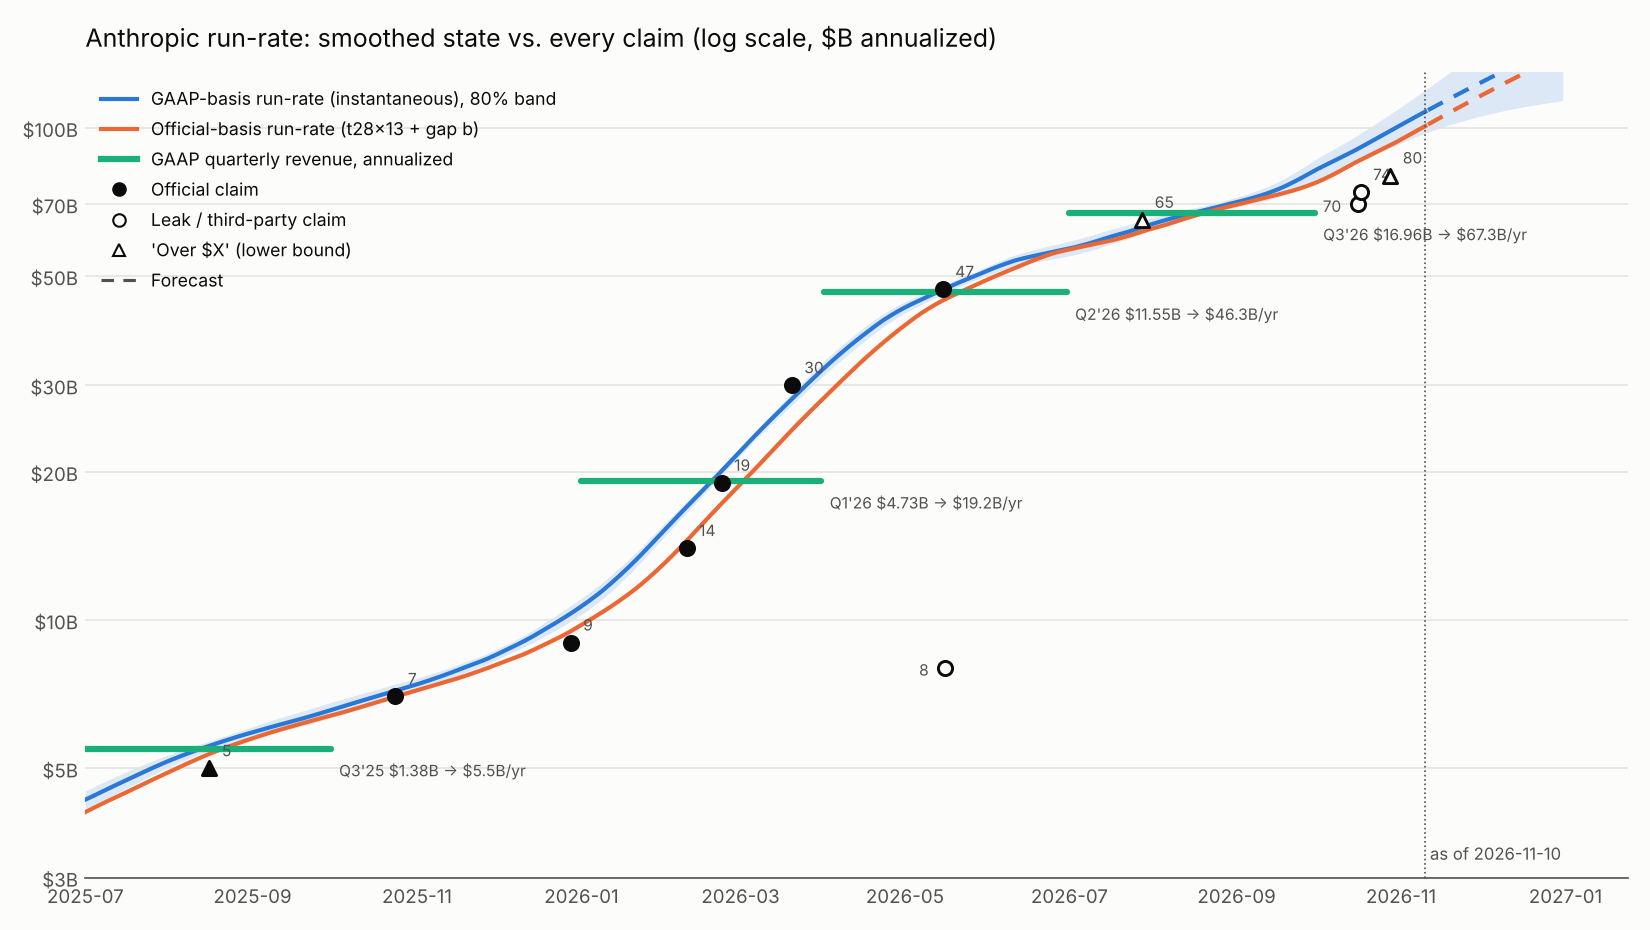
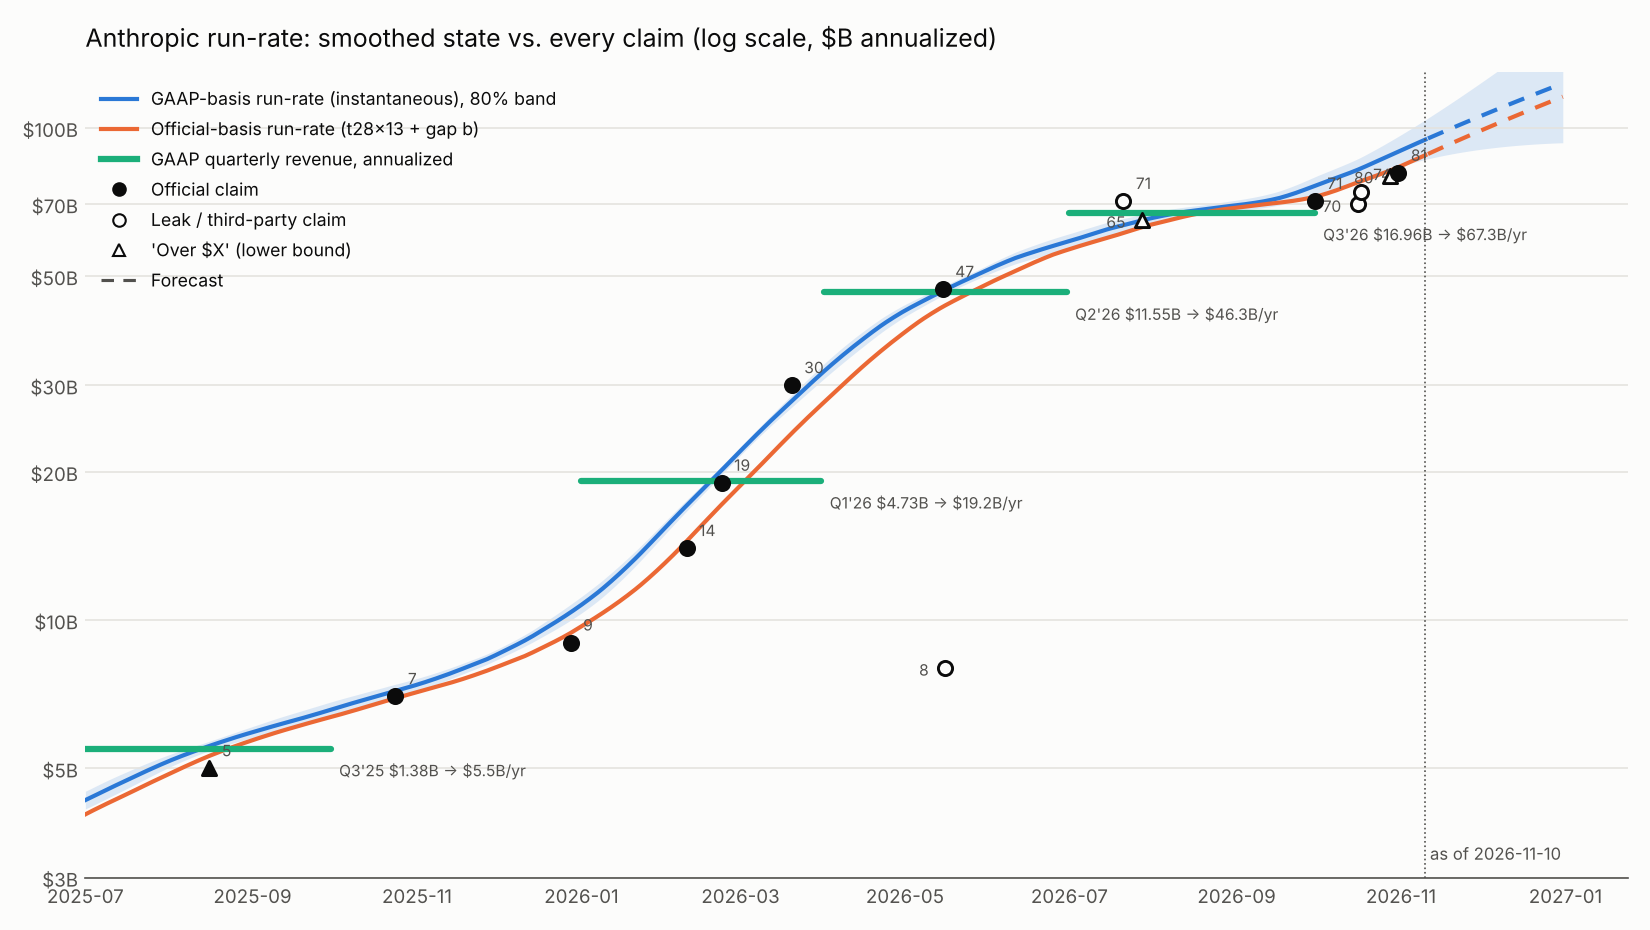
Reconcile forecasts with the official $81B (Oct 31); refresh nowcasts and registry
- README: new top section with the post-June official figures, the registered and
  strict out-of-sample forecasts scored against them, and what they imply. The
  indicator-driven models overshot Q3, Sep 30 and Oct 31 in a row; claims-only and
  ML ridge were closest; the Bayesian interval still covered Oct 31.
- Nowcast and Bayesian reports rerun with the new anchors (Q4: claims-only 21.6,
  three-layer 24.8, Bayesian 23.6) and registered for the Q4 reconciliation.

Claude-Session: https://claude.ai/code/session_015VYmrmy85RRK3RPhYBL95Z

diff --git a/runrate_nowcast/reports/nowcast_2026-11-10.md b/runrate_nowcast/reports/nowcast_2026-11-10.md
@@ -2,7 +2,7 @@
 
 Units: $B. Intervals are 80% (q10 to q90). The **GAAP basis** is the instantaneous annualized revenue that matches the S-1 quarterly revenue. The **official basis** applies Anthropic's run-rate definition (trailing 28 days ×13, a 14-day lag) plus the estimated gap b, so it is the number the company would announce on that date.
 
-Parameters: sigma_l=0.0033, sigma_g=0.0162, sigma_b=0.0018, growth reversion kappa=0.094/month toward 0.03; 155 observations used after dedup (127 indicator-weeks); smoother converged in 5 passes.
+Parameters: sigma_l=0.0033, sigma_g=0.0162, sigma_b=0.0018, growth reversion kappa=0.094/month toward 0.03; 158 observations used after dedup (127 indicator-weeks); smoother converged in 4 passes.
 
 ## Headline (averaged over specifications)
 
@@ -10,29 +10,29 @@ The audit (reports/audit_*.md) found the nowcast sensitive to choices the data c
 
 | Quantity | Spec-averaged (80%) | Calibrated to out-of-sample error |
 |---|---|---|
-| Run-rate, official basis, 2026-10-31 | 95.9 [87.4, 105.6] | [82.2, 112.6] |
-| Run-rate, official basis, 2026-11-10 | 103.0 [92.8, 115.2] | [86.5, 124.2] |
-| Revenue 2026-10-01..2026-12-31 | 29.5 [25.3, 34.0] | [22.5, 37.0] |
+| Run-rate, official basis, 2026-10-31 | 82.9 [79.4, 86.5] | [78.7, 87.3] |
+| Run-rate, official basis, 2026-11-10 | 87.6 [82.7, 92.9] | [81.7, 94.0] |
+| Revenue 2026-10-01..2026-12-31 | 24.8 [21.8, 27.8] | [21.2, 28.4] |
 
-Posterior weight by indicator lag (days; + = indicator trails revenue): -14: 5%, -7: 15%, +0: 35%, +7: 38%, +14: 7%.
-Posterior weight by elasticity beta: 0.85: 23%, 1: 67%, 1.15: 10%.
-Posterior weight by drift multiplier: 0.5: 0%, 0.7: 0%, 1: 99%, 1.4: 1%.
-Posterior weight by third-party noise: 0.08: 21%, 0.15: 42%, 0.3: 36%.
-Posterior weight by run-rate definition lag (days): 7: 76%, 14: 24%.
-Top specifications: lag +7, beta 1.00, drift ×1, third-party sd 0.15, definition lag 7 (9%); lag +0, beta 1.00, drift ×1, third-party sd 0.15, definition lag 7 (8%); lag +7, beta 1.00, drift ×1, third-party sd 0.3, definition lag 7 (7%).
-Calibrated column: the strict out-of-sample backtest had z sd = 1.67, so model intervals are widened by that factor (n = 13 targets, so this factor is itself uncertain).
+Posterior weight by indicator lag (days; + = indicator trails revenue): -14: 14%, -7: 20%, +0: 32%, +7: 30%, +14: 5%.
+Posterior weight by elasticity beta: 0.85: 32%, 1: 59%, 1.15: 10%.
+Posterior weight by drift multiplier: 0.5: 0%, 0.7: 15%, 1: 85%, 1.4: 0%.
+Posterior weight by third-party noise: 0.08: 53%, 0.15: 39%, 0.3: 8%.
+Posterior weight by run-rate definition lag (days): 7: 72%, 14: 28%.
+Top specifications: lag +7, beta 1.00, drift ×1, third-party sd 0.08, definition lag 7 (6%); lag +0, beta 1.00, drift ×1, third-party sd 0.08, definition lag 7 (5%); lag +0, beta 1.00, drift ×1, third-party sd 0.15, definition lag 7 (4%).
+Calibrated column: the strict out-of-sample backtest had z sd = 1.21, so model intervals are widened by that factor (n = 13 targets, so this factor is itself uncertain).
 
 ## Run-rate (single fitted specification)
 
 | Date | GAAP basis (instantaneous) | Official basis (t28×13 + b) | Growth (log/month) |
 |---|---|---|---|
-| 2026-06-30 | 56.7 [54.8, 58.7] | 56.5 [53.9, 59.1] | +0.092 ± 0.040 |
-| 2026-09-30 | 81.9 [78.0, 86.0] | 77.2 [73.2, 81.5] | +0.196 ± 0.049 |
-| 2026-10-31 | 100.7 [92.6, 109.4] | 94.0 [87.2, 101.4] | +0.211 ± 0.067 |
-| 2026-11-10 | 107.9 [97.5, 119.3] | 100.8 [92.5, 109.9] | +0.206 ± 0.081 |
-| 2026-12-31 (forecast) | 149.1 [113.5, 195.8] | 141.2 [113.4, 175.6] | +0.180 ± 0.128 |
+| 2026-06-30 | 58.6 [56.7, 60.7] | 56.5 [53.9, 59.1] | +0.116 ± 0.040 |
+| 2026-09-30 | 76.2 [73.1, 79.5] | 72.4 [70.0, 74.9] | +0.138 ± 0.045 |
+| 2026-10-31 | 89.4 [83.3, 96.1] | 83.2 [79.8, 86.7] | +0.171 ± 0.072 |
+| 2026-11-10 | 94.6 [86.2, 103.8] | 88.0 [83.3, 93.0] | +0.167 ± 0.085 |
+| 2026-12-31 (forecast) | 123.1 [93.3, 162.5] | 115.6 [93.4, 143.2] | +0.147 ± 0.130 |
 
-Gap b between official run-rate and GAAP at 2026-11-10: +0.030 ± 0.035 (official ≈ GAAP basis × 1.030)
+Gap b between official run-rate and GAAP at 2026-11-10: +0.006 ± 0.030 (official ≈ GAAP basis × 1.006)
 
 ## Segments (official basis)
 
@@ -40,10 +40,10 @@ Only consumption vs subscription is audited (S-1, H1 2026). Cloud channel and Cl
 
 | Segment | Share 2026-09-30 | Share 2026-11-10 | Run-rate 2026-09-30 | Run-rate 2026-11-10 |
 |---|---|---|---|---|
-| Consumption (API, cloud, metered apps) | 80.7% [79%, 82%] | 80.6% [79%, 83%] | 62.1 [58.6, 65.7] | 81.2 [74.4, 88.7] |
-| Subscriptions (Pro/Max/Team/Enterprise seats) | 19.4% [18%, 21%] | 19.4% [18%, 21%] | 15.0 [13.7, 16.6] | 19.5 [17.2, 22.2] |
-| Billed via cloud marketplaces (overlay) | 48.0% [44%, 52%] | 48.0% [44%, 53%] | 37.0 [33.6, 40.9] | 48.4 [42.7, 54.9] |
-| Claude Code (product overlay) | 17.7% [12%, 25%] | 17.7% [12%, 26%] | 13.6 [9.6, 19.3] | 17.8 [12.1, 26.3] |
+| Consumption (API, cloud, metered apps) | 80.6% [79%, 82%] | 80.5% [79%, 82%] | 58.2 [55.9, 60.5] | 70.9 [66.8, 75.2] |
+| Subscriptions (Pro/Max/Team/Enterprise seats) | 19.5% [18%, 21%] | 19.4% [18%, 21%] | 14.1 [13.0, 15.4] | 17.1 [15.4, 19.0] |
+| Billed via cloud marketplaces (overlay) | 48.0% [44%, 52%] | 48.0% [44%, 53%] | 34.7 [31.8, 38.0] | 42.2 [37.9, 47.0] |
+| Claude Code (product overlay) | 18.0% [13%, 26%] | 18.0% [12%, 27%] | 13.0 [9.2, 18.4] | 15.8 [10.7, 23.3] |
 
 ## Leading indicators
 
@@ -51,18 +51,18 @@ Each indicator: log(I) = a + beta·log(segment revenue) + noise, with a drifting
 
 | Indicator | Segment | beta | Latest week | 4-week change | Read as revenue | Model revenue (same weeks) |
 |---|---|---|---|---|---|---|
-| npm_anthropic_sdk | api | 0.96 | 2026-11-05 | +22.3% | +23.3% | +19.0% |
-| pypi_anthropic | api | 1.08 | 2026-11-05 | +18.9% | +17.6% | +19.0% |
-| ramp_token_spend_anthropic | api | 0.93 | 2026-10-20 | +25.0% | +27.0% | +18.5% |
+| npm_anthropic_sdk | api | 0.96 | 2026-11-05 | +22.3% | +23.3% | +15.1% |
+| pypi_anthropic | api | 1.08 | 2026-11-05 | +18.9% | +17.6% | +15.1% |
+| ramp_token_spend_anthropic | api | 0.93 | 2026-10-20 | +25.0% | +27.0% | +13.7% |
 
 ## Forecast claims vs the model (not used in the filter; scored for track record)
 
 | Claim | Made | Target date | Horizon | Claim value | Model (official basis) | Claim / model |
 |---|---|---|---|---|---|---|
-| rr_2025_10_target | 2025-10-16 | 2025-12-31 | 2.5 mo | 9 | 9.7 [9.4, 10.1] | 0.93 |
-| fc_reuters_2025_10_2026 | 2025-10-16 | 2026-12-31 | 14.5 mo | 23 | 141.2 [113.4, 175.6] | 0.16 |
-| fc_ft_2026_08 | 2026-08-17 | 2026-12-31 | 4.5 mo | 110 | 141.2 [113.4, 175.6] | 0.78 |
-| fc_nyt_2026_09 | 2026-09-30 | 2026-12-31 | 3.0 mo | >100 | 141.2 [113.4, 175.6] | 0.71 |
+| rr_2025_10_target | 2025-10-16 | 2025-12-31 | 2.5 mo | 9 | 9.6 [9.3, 10.0] | 0.93 |
+| fc_reuters_2025_10_2026 | 2025-10-16 | 2026-12-31 | 14.5 mo | 23 | 115.6 [93.4, 143.2] | 0.20 |
+| fc_ft_2026_08 | 2026-08-17 | 2026-12-31 | 4.5 mo | 110 | 115.6 [93.4, 143.2] | 0.95 |
+| fc_nyt_2026_09 | 2026-09-30 | 2026-12-31 | 3.0 mo | >100 | 115.6 [93.4, 143.2] | 0.86 |
 
 ## Revenue by period
 
@@ -73,26 +73,26 @@ Each indicator: log(I) = a + beta·log(segment revenue) + noise, with a drifting
 | 2025-07-01..2025-09-30 | 1.38 | [1.38, 1.39] | GAAP disclosed |
 | 2025-01-01..2025-12-31 | 4.59 | [4.57, 4.60] | GAAP disclosed |
 | 2026-01-01..2026-03-31 | 4.73 | [4.71, 4.75] | GAAP disclosed |
-| 2026-04-01..2026-06-30 | 11.55 | [11.51, 11.60] | GAAP disclosed |
-| 2026-07-01..2026-09-30 | 16.96 | [16.90, 17.03] | GAAP disclosed |
-| 2026-07-01..2026-07-31 | 5.09 | [4.94, 5.25] | estimate |
-| 2026-08-01..2026-08-31 | 5.70 | [5.60, 5.79] | estimate |
-| 2026-09-01..2026-09-30 | 6.17 | [5.98, 6.37] | estimate |
-| 2026-10-01..2026-10-31 | 7.72 | [7.23, 8.21] | estimate |
-| 2026-11-01..2026-11-30 | 9.22 | [8.20, 10.28] | forecast |
-| 2026-12-01..2026-12-31 | 11.70 | [9.36, 14.24] | forecast |
-| 2026-10-01..2026-12-31 | 28.64 | [24.99, 32.47] | forecast |
-| 2026-01-01..2026-12-31 | 61.88 | [58.17, 65.68] | forecast |
+| 2026-04-01..2026-06-30 | 11.56 | [11.51, 11.60] | GAAP disclosed |
+| 2026-07-01..2026-09-30 | 16.96 | [16.89, 17.02] | GAAP disclosed |
+| 2026-07-01..2026-07-31 | 5.28 | [5.13, 5.43] | estimate |
+| 2026-08-01..2026-08-31 | 5.75 | [5.66, 5.85] | estimate |
+| 2026-09-01..2026-09-30 | 5.93 | [5.76, 6.10] | estimate |
+| 2026-10-01..2026-10-31 | 7.00 | [6.65, 7.36] | estimate |
+| 2026-11-01..2026-11-30 | 8.03 | [7.19, 8.90] | forecast |
+| 2026-12-01..2026-12-31 | 9.83 | [7.85, 11.99] | forecast |
+| 2026-10-01..2026-12-31 | 24.86 | [21.85, 28.02] | forecast |
+| 2026-01-01..2026-12-31 | 58.10 | [55.03, 61.24] | forecast |
 
 ## Bound claims: how likely is each one true? (evaluated by a model that never saw it)
 
 | Claim | Source tier | Probability true |
 |---|---|---|
-| rr_2025_08: run_rate > 5 @ 2025-08-16 | official | 80% |
+| rr_2025_08: run_rate > 5 @ 2025-08-16 | official | 75% |
 | cc_2025_08: run_rate > 0.5 @ 2025-08-17 | official | 95% |
-| cc_2026_02: run_rate > 2.5 @ 2026-02-09 | official | 11% |
-| rr_2026_07: run_rate > 65 @ 2026-07-28 | leak_tier1 | 18% |
-| rr_2026_10_wsj: run_rate > 80 @ 2026-10-28 | leak_single | 80% |
+| cc_2026_02: run_rate > 2.5 @ 2026-02-09 | official | 13% |
+| rr_2026_07: run_rate > 65 @ 2026-07-28 | leak_tier1 | 26% |
+| rr_2026_10_wsj: run_rate > 80 @ 2026-10-28 | leak_single | 55% |
 
 ## In-sample fit by claim (smoothed)
 
@@ -100,34 +100,37 @@ z = (claim − fitted)/sd. A point claim conflicts with everything else when |z|
 
 | obs_id | segment | tier | kind | claim | fitted | z | conflict |
 |---|---|---|---|---|---|---|---|
-| rr_2025_01 | total | official | point | 1 | 1.01 | -0.11 |  |
-| rev_2025q1 | total | gaap | point | 0.376 | 0.38 | -0.03 |  |
-| rr_2025_05 | total | leak_tier1 | point | 3 | 2.85 | +0.48 |  |
+| rr_2025_01 | total | official | point | 1 | 1.01 | -0.09 |  |
+| rev_2025q1 | total | gaap | point | 0.376 | 0.38 | -0.02 |  |
+| rr_2025_05 | total | leak_tier1 | point | 3 | 2.83 | +0.53 |  |
 | rev_2025q2 | total | gaap | point | 0.787 | 0.79 | -0.03 |  |
-| rr_2025_08 | total | official | lower | 5 | 5.35 | -0.97 |  |
+| rr_2025_08 | total | official | lower | 5 | 5.30 | -0.83 |  |
 | cc_2025_08 | claude_code | official | lower | 0.5 | 0.75 | -2.00 |  |
-| rev_2025q3 | total | gaap | point | 1.382 | 1.38 | -0.06 |  |
-| rr_2025_10 | total | official | point | 7 | 6.99 | +0.02 |  |
-| cc_2025_11 | claude_code | official | point | 1 | 1.02 | -0.33 |  |
-| rr_2025_12 | total | official | point | 9 | 9.49 | -1.04 |  |
-| rev_2025fy | total | gaap | point | 4.59 | 4.59 | +0.17 |  |
-| rr_2026_02 | total | official | point | 14 | 14.49 | -0.62 |  |
-| cc_2026_02 | claude_code | official | lower | 2.5 | 2.66 | -0.68 |  |
-| rr_2026_03 | total | official | point | 19 | 17.25 | +1.12 |  |
-| rr_2026_04 | total | official | point | 30 | 24.31 | +1.54 |  |
-| rev_2026q1 | total | gaap | point | 4.729 | 4.73 | -0.03 |  |
+| rev_2025q3 | total | gaap | point | 1.382 | 1.38 | -0.05 |  |
+| rr_2025_10 | total | official | point | 7 | 6.94 | +0.16 |  |
+| cc_2025_11 | claude_code | official | point | 1 | 1.02 | -0.32 |  |
+| rr_2025_12 | total | official | point | 9 | 9.42 | -0.89 |  |
+| rev_2025fy | total | gaap | point | 4.59 | 4.59 | +0.13 |  |
+| rr_2026_02 | total | official | point | 14 | 14.46 | -0.59 |  |
+| cc_2026_02 | claude_code | official | lower | 2.5 | 2.67 | -0.72 |  |
+| rr_2026_03 | total | official | point | 19 | 17.17 | +1.19 |  |
+| rr_2026_04 | total | official | point | 30 | 23.96 | +1.70 |  |
+| rev_2026q1 | total | gaap | point | 4.729 | 4.73 | -0.04 |  |
 | rev_2026q1_fortune | total | leak_tier1 | point | 4.73 | 4.73 | +0.00 |  |
-| seg_sub_h1_2026 | subscription | gaap | point | 0.196 | 0.20 | -0.01 |  |
+| seg_sub_h1_2026 | subscription | gaap | point | 0.196 | 0.20 | -0.00 |  |
 | seg_cloud_h1_2026 | cloud | gaap | point | 0.48 | 0.48 | +0.01 |  |
-| rr_2026_05 | total | official | point | 47 | 44.59 | +0.70 |  |
-| cc_2026_05 | claude_code | third_party | point | 8 | 8.27 | -0.15 |  |
-| rev_2026q2 | total | gaap | point | 11.555 | 11.55 | +0.02 |  |
-| rev_2026q2_prelim | total | leak_tier1 | point | 11.5 | 11.55 | -0.06 |  |
-| rr_2026_07 | total | leak_tier1 | lower | 65 | 61.57 | +0.61 |  |
-| rev_2026q3 | total | gaap | point | 16.96 | 16.96 | -0.04 |  |
-| rr_2026_10_sacra70 | total | third_party | point | 70 | 89.32 | -1.35 |  |
-| rr_2026_10_semi | total | third_party | point | 74 | 89.87 | -1.06 |  |
-| rr_2026_10_wsj | total | leak_single | lower | 80 | 92.16 | -0.88 |  |
+| rr_2026_05 | total | official | point | 47 | 43.29 | +1.07 |  |
+| cc_2026_05 | claude_code | third_party | point | 8 | 8.20 | -0.11 |  |
+| rev_2026q2 | total | gaap | point | 11.555 | 11.56 | -0.02 |  |
+| rev_2026q2_prelim | total | leak_tier1 | point | 11.5 | 11.56 | -0.06 |  |
+| rr_2026_07 | total | leak_tier1 | lower | 65 | 62.86 | +0.37 |  |
+| rr_2026_07_funda | total | third_party | point | 71 | 62.86 | +0.76 |  |
+| rr_2026_09_s1a | total | official | point | 71 | 72.40 | -0.41 |  |
+| rev_2026q3 | total | gaap | point | 16.96 | 16.96 | +0.03 |  |
+| rr_2026_10_sacra70 | total | third_party | point | 70 | 80.01 | -0.81 |  |
+| rr_2026_10_semi | total | third_party | point | 74 | 80.37 | -0.49 |  |
+| rr_2026_10_wsj | total | leak_single | lower | 80 | 81.92 | -0.15 |  |
+| rr_2026_10_s1a | total | official | point | 81 | 83.17 | -0.51 |  |
 
 ## Rows not used
 

diff --git a/runrate_nowcast/reports/bayes_2026-11-10.md b/runrate_nowcast/reports/bayes_2026-11-10.md
@@ -4,42 +4,42 @@ MAP + Laplace posterior over all estimated parameters; predictions mix over post
 
 | Quantity | Median / mean | 80% interval |
 |---|---|---|
-| runrate_2026-10-31 | 95.3 | [84.9, 107.3] |
-| runrate_2026-11-10 | 101.9 | [89.4, 117.2] |
-| revenue_quarter | 28.4 | [23.7, 33.4] |
+| runrate_2026-10-31 | 81.8 | [78.3, 85.5] |
+| runrate_2026-11-10 | 85.6 | [80.4, 91.6] |
+| revenue_quarter | 23.6 | [20.8, 26.7] |
 
 ## Structure weights (Laplace evidence)
 
 |   def_lag |   lag |   log_evidence |   weight |
 |----------:|------:|---------------:|---------:|
-|         7 |    -7 |        131.346 |    0.102 |
-|         7 |     0 |        132.342 |    0.276 |
-|         7 |     7 |        132.762 |    0.42  |
-|        14 |    -7 |        130.149 |    0.031 |
-|        14 |     0 |        130.907 |    0.066 |
-|        14 |     7 |        131.389 |    0.106 |
+|         7 |    -7 |        133.128 |    0.079 |
+|         7 |     0 |        134.642 |    0.36  |
+|         7 |     7 |        134.65  |    0.363 |
+|        14 |    -7 |        132.04  |    0.027 |
+|        14 |     0 |        132.776 |    0.056 |
+|        14 |     7 |        133.506 |    0.116 |
 
 ## Parameter posterior (best structure)
 
 | param                     |     map |     q10 |    q90 |   prior_center |
 |:--------------------------|--------:|--------:|-------:|---------------:|
-| sigma_l                   |  0.0031 |  0.0011 | 0.0086 |          0.004 |
-| sigma_g                   |  0.0163 |  0.011  | 0.0242 |          0.01  |
-| sigma_b                   |  0.0014 |  0.0003 | 0.0068 |          0.002 |
-| kappa                     |  0.1411 |  0.0508 | 0.3921 |          0.1   |
-| npm_anthropic_sdk.beta    |  0.9166 |  0.8164 | 1.0168 |          0.75  |
-| npm_anthropic_sdk.drift   |  0.0109 |  0.005  | 0.0238 |          0.003 |
-| npm_anthropic_sdk.obs_sd  |  0.04   |  0.032  | 0.0501 |          0.06  |
-| pypi_anthropic.beta       |  0.8328 |  0.616  | 1.0496 |          0.75  |
-| pypi_anthropic.drift      |  0.0028 |  0.0009 | 0.0093 |          0.003 |
-| pypi_anthropic.obs_sd     |  0.0306 |  0.0231 | 0.0405 |          0.06  |
-| factor.dev_activity.drift |  0.0119 |  0.0077 | 0.0182 |          0.01  |
-| third_party.sd            |  0.1872 |  0.1052 | 0.333  |          0.15  |
-| vol.2025Q1                | -0.2083 | -1.0647 | 0.6482 |          0     |
-| vol.2025Q2                | -0.2083 | -1.0928 | 0.6762 |          0     |
-| vol.2025Q3                | -0.2708 | -1.133  | 0.5914 |          0     |
-| vol.2025Q4                |  0.0062 | -0.8968 | 0.9091 |          0     |
-| vol.2026Q1                |  0.7647 | -0.1372 | 1.6665 |          0     |
-| vol.2026Q2                |  0.0493 | -0.8261 | 0.9247 |          0     |
-| vol.2026Q3                | -0.0176 | -0.8674 | 0.8322 |          0     |
-| vol.2026Q4                |  0.0022 | -0.8931 | 0.8975 |          0     |
+| sigma_l                   |  0.0029 |  0.0011 | 0.0077 |          0.004 |
+| sigma_g                   |  0.014  |  0.0095 | 0.0207 |          0.01  |
+| sigma_b                   |  0.0017 |  0.0003 | 0.0088 |          0.002 |
+| kappa                     |  0.1649 |  0.0738 | 0.3684 |          0.1   |
+| npm_anthropic_sdk.beta    |  0.9171 |  0.8068 | 1.0274 |          0.75  |
+| npm_anthropic_sdk.drift   |  0.0091 |  0.0023 | 0.0364 |          0.003 |
+| npm_anthropic_sdk.obs_sd  |  0.04   |  0.0313 | 0.0511 |          0.06  |
+| pypi_anthropic.beta       |  0.7882 |  0.5102 | 1.0661 |          0.75  |
+| pypi_anthropic.drift      |  0.0027 |  0.0008 | 0.009  |          0.003 |
+| pypi_anthropic.obs_sd     |  0.0312 |  0.0225 | 0.0433 |          0.06  |
+| factor.dev_activity.drift |  0.0149 |  0.0103 | 0.0215 |          0.01  |
+| third_party.sd            |  0.1113 |  0.0637 | 0.1945 |          0.15  |
+| vol.2025Q1                | -0.1492 | -1.0091 | 0.7106 |          0     |
+| vol.2025Q2                | -0.2143 | -1.1013 | 0.6728 |          0     |
+| vol.2025Q3                | -0.261  | -1.1257 | 0.6038 |          0     |
+| vol.2025Q4                |  0.1474 | -0.76   | 1.0548 |          0     |
+| vol.2026Q1                |  0.8973 | -0.021  | 1.8155 |          0     |
+| vol.2026Q2                | -0.1551 | -1.0231 | 0.7129 |          0     |
+| vol.2026Q3                | -0.1935 | -1.0739 | 0.6869 |          0     |
+| vol.2026Q4                |  0.0111 | -0.8868 | 0.909  |          0     |
